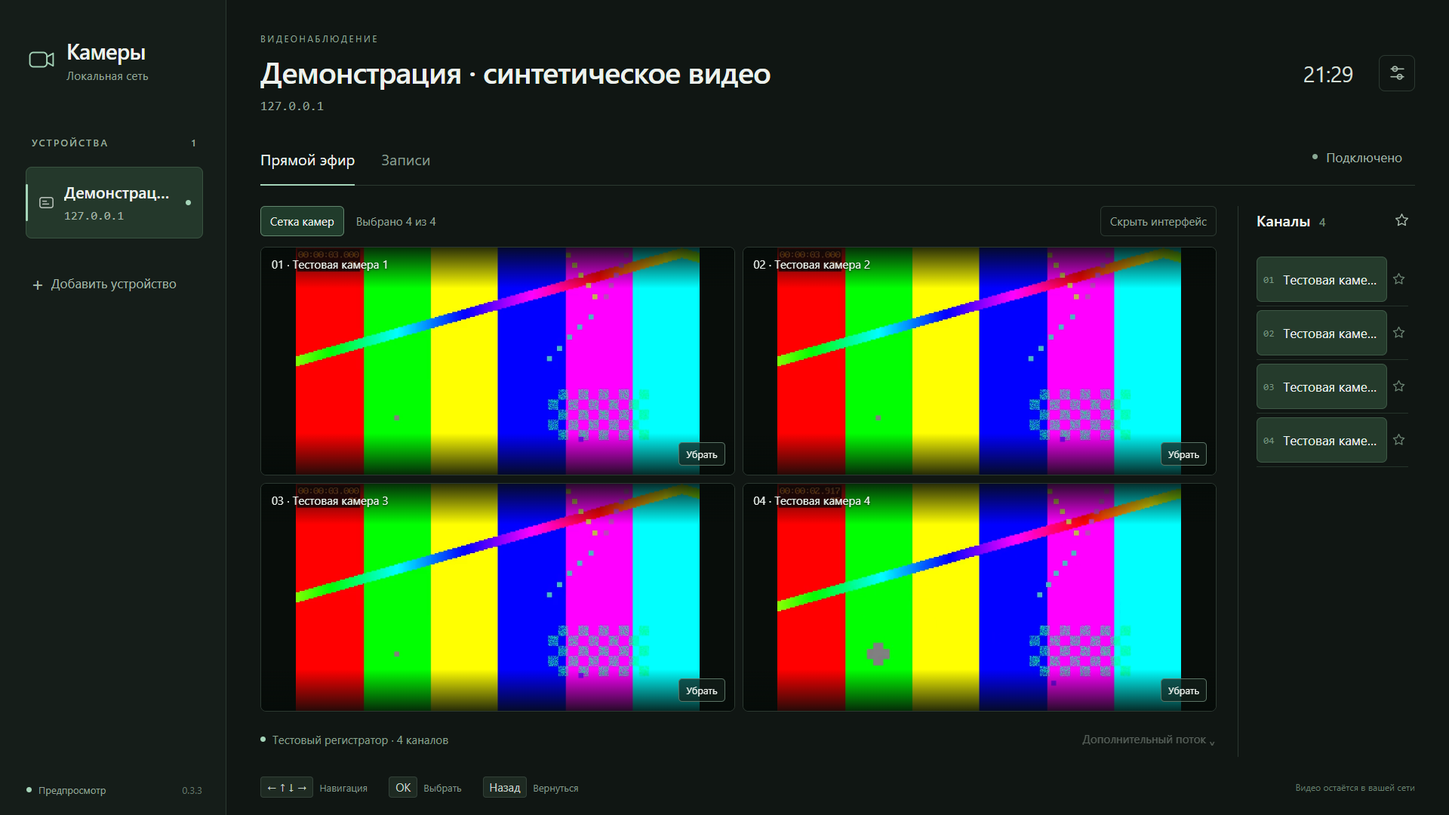
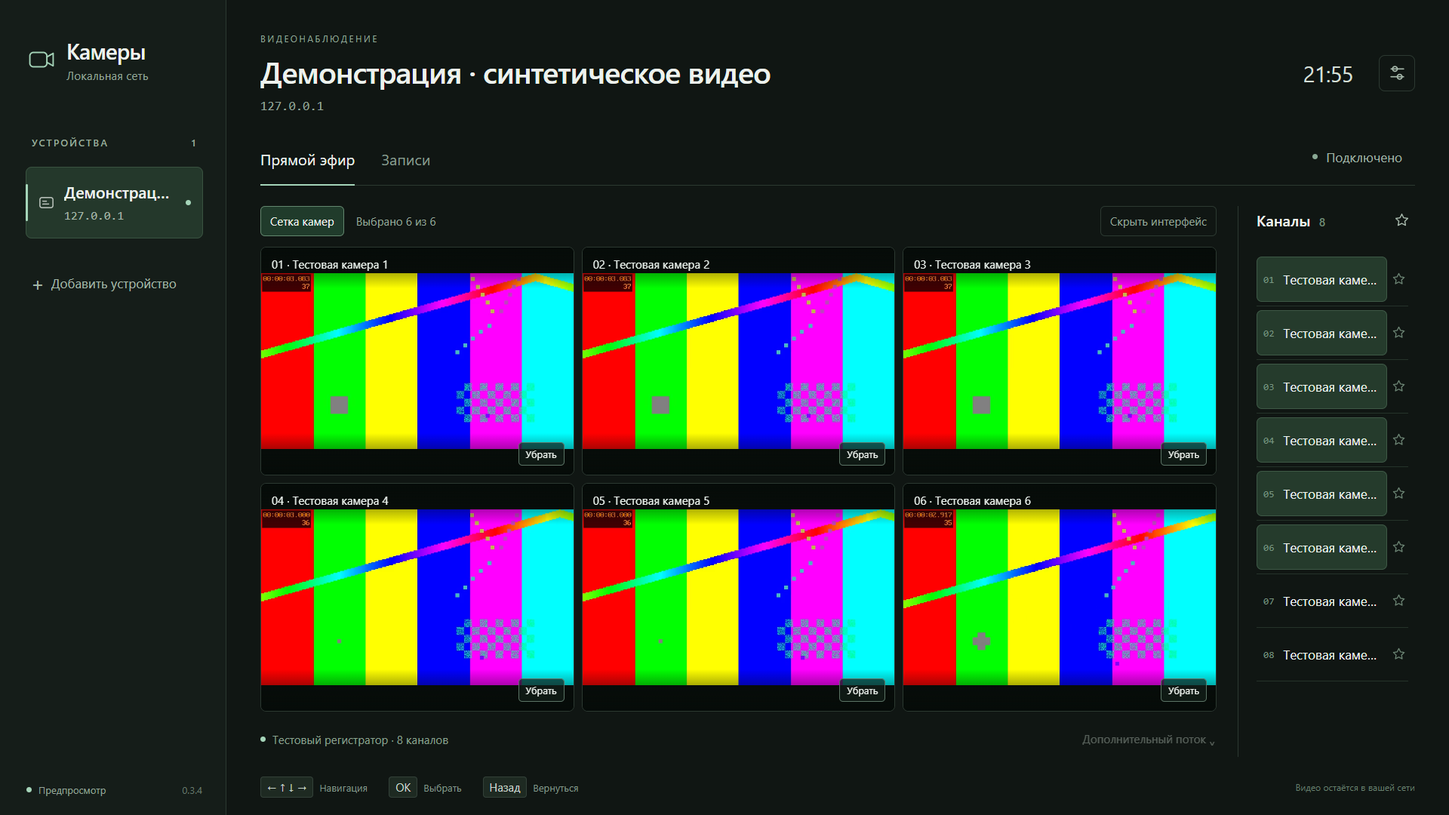
Support six live cameras and enforce the same limit across UI and service

diff --git a/app/app.js b/app/app.js
@@ -11,7 +11,7 @@
   } catch (_) { profiles = defaults; }
   const state = { profiles, selected: profiles[0]?.id || null, connections: new Map(), view: 'live', channel: 0, quality: 'Extra1', favorites: false, connecting: null, editing: null, modal: null, lastFocus: null, playing: false, mode: 'live', playGeneration: 0, loginGeneration: 0, lastPlay: null, recordings: [], nextBegin: null, lastQuery: null, native: Boolean(window.PalmServiceBridge), service: false, keyboardVisible: false };
   state.savedCredentials = new Map(); state.forgetCredentials = false;
-  state.multi = false; state.tiles = new Map(); state.mainLease = null;
+  state.multi = false; state.tiles = new Map(); state.mainLease = null; state.maxStreams = 6;
   const bridges = new Set();
   let sessionBridge = null, toastTimer;
   function service(method, parameters = {}) {
@@ -89,7 +89,7 @@
     $('favorites-filter').setAttribute('aria-pressed', String(state.favorites));
     $('grid-toggle').setAttribute('aria-pressed', String(state.multi));
     $('grid-toggle').disabled=Boolean(state.switchingLayout);
-    $('grid-summary').textContent = state.multi ? 'Выбрано ' + state.tiles.size + ' из 4' : 'Одиночный просмотр';
+    $('grid-summary').textContent = state.multi ? 'Выбрано ' + state.tiles.size + ' из ' + state.maxStreams : 'Одиночный просмотр';
     document.querySelector('[data-action=edit]').disabled = !item;
   }
   function renderArchiveChannels() {
@@ -229,7 +229,7 @@
   async function openTile(channel) {
     const current = connection(); if (!current) return connectDevice();
     if (state.tiles.has(channel)) return;
-    if (state.tiles.size >= 4) return toast('В сетке можно выбрать до четырёх камер');
+    if (state.tiles.size >= state.maxStreams) return toast('В сетке можно выбрать до ' + state.maxStreams + ' камер');
     const item = current.channels[channel]; if (!item) return;
     const tile = { channel, slot:'grid-' + channel, lease:null, element:document.createElement('section') };
     tile.element.className = 'camera-tile'; tile.element.dataset.channel = String(channel); tile.element.setAttribute('aria-label',item.name);
@@ -491,6 +491,7 @@
   window.addEventListener('beforeunload', () => { player.stop();for(const tile of state.tiles.values())tile.player.dispose();state.tiles.clear();for (const bridge of bridges) if (bridge.cancel) bridge.cancel(); if (sessionBridge?.cancel) sessionBridge.cancel(); service('stop').catch(() => {}); });
   render(); focusElement($('device-list').querySelector('button') || document.querySelector('[data-action=add]'));
   service('bootstrap').then(response => {
+    if(Number.isInteger(response.maxStreams)&&response.maxStreams>0)state.maxStreams=Math.min(6,response.maxStreams);
     state.savedCredentials = new Map((response.credentials || []).map(account => [account.id, account])); render();
     state.service = true; $('service-state').textContent = response.native ? 'Сервис готов' : 'Предпросмотр'; document.querySelector('.network-dot').classList.add('ready');
     if (response.native && window.PalmServiceBridge) { sessionBridge = new PalmServiceBridge(); sessionBridge.onservicecallback = () => {}; sessionBridge.call('luna://local.xmeye.viewer.service/session', JSON.stringify({ subscribe: true })); }

diff --git a/app/styles.css b/app/styles.css
@@ -48,3 +48,5 @@
 .fullscreen #player-shell:focus-within .player-controls,.fullscreen .camera-tile:focus-within .tile-controls{opacity:1;pointer-events:auto}
 @media(max-width:1500px){.camera-toolbar{gap:10px;font-size:13px;margin-bottom:10px}.grid-toggle,.grid-screen{font-size:13px;min-height:36px;padding:8px 10px}.tile-caption{font-size:13px;padding:10px 10px 20px}.tile-controls{padding:8px}.tile-status{font-size:13px}.tile-button{font-size:12px}}
 @media(max-width:1050px){.camera-toolbar #grid-summary{display:none}.camera-toolbar{gap:8px}.grid-screen{font-size:12px}.tile-controls{padding:6px}.tile-button{font-size:11px;padding:5px 6px}}
+
+.camera-grid[data-count="5"],.camera-grid[data-count="6"]{grid-template-columns:repeat(3,minmax(0,1fr));grid-template-rows:repeat(2,minmax(0,1fr))}

diff --git a/app/index.html b/app/index.html
@@ -15,7 +15,7 @@
       <div class="section-label">УСТРОЙСТВА <span id="device-count"></span></div>
       <nav id="device-list" class="device-list"></nav>
       <button type="button" class="add-device" data-action="add"><span aria-hidden="true">+</span> Добавить устройство</button>
-      <div class="sidebar-bottom"><span class="network-dot"></span><span id="service-state">Запуск приложения</span><span class="version">0.3.3</span></div>
+      <div class="sidebar-bottom"><span class="network-dot"></span><span id="service-state">Запуск приложения</span><span class="version">0.3.4</span></div>
     </aside>
 
     <main class="main">

diff --git a/README.md b/README.md
@@ -1,23 +1,23 @@
 # LG XMEye Viewer
 
-**Камеры видеонаблюдения на телевизоре LG webOS: подключение к регистратору по локальной сети, H.264/H.265 и до четырёх камер одновременно.**
+**Камеры видеонаблюдения на телевизоре LG webOS: подключение к регистратору по локальной сети, H.264/H.265 и до шести камер одновременно.**
 
 [![Checks](https://github.com/alexbel123/lg-xmeye-viewer/actions/workflows/checks.yml/badge.svg)](https://github.com/alexbel123/lg-xmeye-viewer/actions/workflows/checks.yml)
 [![License: GPL v3](https://img.shields.io/badge/license-GPLv3-blue.svg)](LICENSE)
-[![Source preview: 0.3.3](https://img.shields.io/badge/source_preview-0.3.3-orange.svg)](https://github.com/alexbel123/lg-xmeye-viewer/releases)
+[![Source preview: 0.3.4](https://img.shields.io/badge/source_preview-0.3.4-orange.svg)](https://github.com/alexbel123/lg-xmeye-viewer/releases)
 
 [English](README.en.md) · [Установка](docs/INSTALL.ru.md) · [Совместимость](docs/COMPATIBILITY.md) · [Конфиденциальность](docs/PRIVACY.md) · [Сообщить об ошибке](https://github.com/alexbel123/lg-xmeye-viewer/issues/new/choose)
 
 Независимый открытый клиент для XMEye-совместимых DVR/NVR. Интерфейс и сервис работают на телевизоре; постоянно включённый компьютер для просмотра не нужен. Приложение подключается по IP и использует учётную запись самого регистратора. Облачный аккаунт XMEye не требуется и не поддерживается.
 
-**Статус: экспериментальная версия для разработчиков.** В [выпуске v0.3.3](https://github.com/alexbel123/lg-xmeye-viewer/releases/tag/v0.3.3) доступны готовые IPK HD/FHD, декодер, полные исходники и контрольные суммы. Декодер собран нами из зафиксированных исходников FFmpeg. Одобрения LG Content Store пока нет. Работа обычной установки Developer Mode без root ещё не подтверждена — см. [ограничения](docs/COMPATIBILITY.md).
+**Статус: экспериментальная версия для разработчиков.** В [выпуске v0.3.4](https://github.com/alexbel123/lg-xmeye-viewer/releases/tag/v0.3.4) доступны готовые IPK HD/FHD, декодер, полные исходники и контрольные суммы. Декодер собран нами из зафиксированных исходников FFmpeg. Одобрения LG Content Store пока нет. Работа обычной установки Developer Mode без root ещё не подтверждена — см. [ограничения](docs/COMPATIBILITY.md).
 
 ## Что уже работает
 
 - Несколько профилей регистраторов, отдельные сохранённые данные входа для каждого.
 - Получение списка каналов и прямой эфир через DVRIP, обычно TCP 34567.
 - Горячее переключение камер с отдельными управляющим и видеосоединениями.
-- До **четырёх** выбранных камер одного регистратора одновременно.
+- До **шести** выбранных камер одного регистратора одновременно.
 - Скрытие интерфейса для просмотра поля камер на весь экран.
 - Управление стрелками, OK, «Назад», указателем Magic Remote и CH+/CH−.
 - Основной и дополнительный потоки, H.264 и H.265/HEVC.
@@ -30,11 +30,11 @@
 
 Рабочая сетка с **синтетическим тестовым видео**; реальные камеры и пользовательские данные в изображение не включены:
 
-![Рабочее приложение: четыре синтетических видеопотока и управление каналами](docs/images/live-grid.png)
+![Рабочее приложение: шесть синтетических видеопотока и управление каналами](docs/images/live-grid.png)
 
-Развиваемый интерфейс v0.4: **это отдельный интерактивный макет**, все кадры сгенерированы. Сетки 1/2/4/6 и подписанные наборы показаны в макете; в рабочей версии ограничение — четыре потока, наборы пока не перенесены:
+Развиваемый интерфейс v0.4: **это отдельный интерактивный макет**, все кадры сгенерированы. Рабочая версия уже поддерживает до шести потоков и автоматическую сетку 3×2. Именованные наборы и ручной выбор раскладки пока остаются в макете:
 
-![Макет v0.4 с шестью демонстрационными камерами; не возможности текущей рабочей версии](docs/images/interface-concept.png)
+![Макет v0.4: будущий интерфейс наборов камер и сгенерированные кадры](docs/images/interface-concept.png)
 
 Макет можно открыть локально: `design/prototype-v0.4/index.html`. Он не подключается к регистраторам. [Описание макета](design/prototype-v0.4/README.md).
 

diff --git a/docs/INSTALL.ru.md b/docs/INSTALL.ru.md
@@ -4,7 +4,7 @@
 
 ## Что доступно сейчас
 
-Скачайте готовый пакет из [выпуска v0.3.3](https://github.com/alexbel123/lg-xmeye-viewer/releases/tag/v0.3.3): `local.xmeye.viewer_0.3.3_all.ipk` — интерфейс FHD; `local.xmeye.viewer_0.3.3_1280x720.ipk` — интерфейс HD. Проверяйте файл по `SHA256SUMS-v0.3.3.txt`. Это приложение webOS, а не Android APK. Для готового IPK шаг сборки ниже можно пропустить. Сначала прочитайте [совместимость](COMPATIBILITY.md): обычный Developer Mode без root ещё не проверен, включая права записи хранилища сервиса.
+Скачайте готовый пакет из [выпуска v0.3.4](https://github.com/alexbel123/lg-xmeye-viewer/releases/tag/v0.3.4): `local.xmeye.viewer_0.3.4_all.ipk` — интерфейс FHD; `local.xmeye.viewer_0.3.4_1280x720.ipk` — интерфейс HD. Проверяйте файл по `SHA256SUMS-v0.3.4.txt`. Это приложение webOS, а не Android APK. Для готового IPK шаг сборки ниже можно пропустить. Сначала прочитайте [совместимость](COMPATIBILITY.md): обычный Developer Mode без root ещё не проверен, включая права записи хранилища сервиса.
 
 ## 1. Подготовить компьютер
 
@@ -18,7 +18,7 @@ npm install --global @webos-tools/cli
 npm run build
 ```
 
-Команда загрузки декодера обращается к выпуску этого проекта на GitHub и проверяет SHA-256. Сборка создаёт `dist/local.xmeye.viewer_0.3.3_all.ipk`. `npm run build:hd` создаёт вариант с графическим холстом 1280×720. Если CLI не найден, задайте `WEBOS_CLI_DIR` как каталог установленного пакета. PowerShell:
+Команда загрузки декодера обращается к выпуску этого проекта на GitHub и проверяет SHA-256. Сборка создаёт `dist/local.xmeye.viewer_0.3.4_all.ipk`. `npm run build:hd` создаёт вариант с графическим холстом 1280×720. Если CLI не найден, задайте `WEBOS_CLI_DIR` как каталог установленного пакета. PowerShell:
 
 ```powershell
 $env:WEBOS_CLI_DIR = Join-Path (npm root -g) '@webos-tools/cli'
@@ -39,7 +39,7 @@ ares-novacom --device my-tv --getkey
 ## 3. Установить локально собранный пакет
 
 ```sh
-ares-install --device my-tv dist/local.xmeye.viewer_0.3.3_all.ipk
+ares-install --device my-tv dist/local.xmeye.viewer_0.3.4_all.ipk
 ares-launch --device my-tv local.xmeye.viewer
 ```
 
@@ -49,7 +49,7 @@ ares-launch --device my-tv local.xmeye.viewer
 
 В приложении нажмите «Добавить устройство», введите название, IP, порт DVRIP (обычно 34567), пользователя и пароль самого регистратора. Для нескольких устройств создайте отдельные профили. Пустое поле пароля при редактировании сохраняет прежние данные; «Удалить данные входа» очищает их для выбранного устройства.
 
-Выберите камеру. Для нескольких камер нажмите «Сетка камер» и отметьте до четырёх каналов одного регистратора. «Скрыть интерфейс» разворачивает поле камер, «Назад» возвращает панели. Для сетки включите в регистраторе Extra1 с умеренным разрешением и частотой кадров.
+Выберите камеру. Для нескольких камер нажмите «Сетка камер» и отметьте до шести каналов одного регистратора. «Скрыть интерфейс» разворачивает поле камер, «Назад» возвращает панели. Для сетки включите в регистраторе Extra1 с умеренным разрешением и частотой кадров.
 
 Если телефон видит видео через облако, это не гарантирует доступность IP регистратора с телевизора. Проверьте маршрутизацию между подсетями, порт DVRIP и права просмотра учётной записи. Не публикуйте порт регистратора в интернете ради этого приложения; для удалённого доступа используйте собственную защищённую сеть/VPN.
 

diff --git a/docs/INSTALL.en.md b/docs/INSTALL.en.md
@@ -2,7 +2,7 @@
 
 [Home](../README.en.md) · [Русский](INSTALL.ru.md)
 
-This is a webOS app, not an Android APK. Download the FHD `local.xmeye.viewer_0.3.3_all.ipk` or HD `local.xmeye.viewer_0.3.3_1280x720.ipk` from [release v0.3.3](https://github.com/alexbel123/lg-xmeye-viewer/releases/tag/v0.3.3) and verify `SHA256SUMS-v0.3.3.txt`. Skip the build step when using a ready IPK; see [licensing](LICENSING.md). Ordinary non-root Developer Mode operation, including service storage permissions, has not been validated. Historical hardware testing used a rooted TV.
+This is a webOS app, not an Android APK. Download the FHD `local.xmeye.viewer_0.3.4_all.ipk` or HD `local.xmeye.viewer_0.3.4_1280x720.ipk` from [release v0.3.4](https://github.com/alexbel123/lg-xmeye-viewer/releases/tag/v0.3.4) and verify `SHA256SUMS-v0.3.4.txt`. Skip the build step when using a ready IPK; see [licensing](LICENSING.md). Ordinary non-root Developer Mode operation, including service storage permissions, has not been validated. Historical hardware testing used a rooted TV.
 
 ## Build
 
@@ -16,7 +16,7 @@ npm install --global @webos-tools/cli
 npm run build
 ```
 
-The decoder setup downloads the project's source-built decoder from its GitHub release and verifies its pinned SHA-256. The output is `dist/local.xmeye.viewer_0.3.3_all.ipk`. `npm run build:hd` builds a 1280×720 graphics variant. If CLI discovery fails, set `WEBOS_CLI_DIR` to the installed `@webos-tools/cli` package directory.
+The decoder setup downloads the project's source-built decoder from its GitHub release and verifies its pinned SHA-256. The output is `dist/local.xmeye.viewer_0.3.4_all.ipk`. `npm run build:hd` builds a 1280×720 graphics variant. If CLI discovery fails, set `WEBOS_CLI_DIR` to the installed `@webos-tools/cli` package directory.
 
 ## Pair and install
 
@@ -25,7 +25,7 @@ Follow [LG's official Developer Mode guide](https://webostv.developer.lge.com/de
 ```sh
 ares-setup-device
 ares-novacom --device my-tv --getkey
-ares-install --device my-tv dist/local.xmeye.viewer_0.3.3_all.ipk
+ares-install --device my-tv dist/local.xmeye.viewer_0.3.4_all.ipk
 ares-launch --device my-tv local.xmeye.viewer
 ```
 
@@ -35,7 +35,7 @@ These standard CLI commands do not establish that every non-root runtime restric
 
 Start with **Add device** (the current UI is Russian). Enter the recorder's IP, DVRIP port (usually 34567), username and password. The TV must have a routed connection to the recorder. Phone access through XMEye cloud is not sufficient. Use separate profiles for separate recorder credentials.
 
-Select a live channel or open the camera grid and select up to four channels from the same recorder. Grid mode uses the Extra1 substream; use moderate resolution/frame rates. Hide the interface to fill the TV with the camera field; Back restores controls.
+Select a live channel or open the camera grid and select up to six channels from the same recorder. Grid mode uses the Extra1 substream; use moderate resolution/frame rates. Hide the interface to fill the TV with the camera field; Back restores controls.
 
 See [compatibility](COMPATIBILITY.md), [privacy/storage](PRIVACY.md) and [development](../CONTRIBUTING.md). Do not expose the recorder's DVRIP port to the public internet; use your own protected network/VPN for remote access.
 

diff --git a/README.en.md b/README.en.md
@@ -1,18 +1,18 @@
 # LG XMEye Viewer
 
-**An open-source CCTV viewer for LG webOS TVs: local DVRIP connections, H.264/H.265 playback and up to four simultaneous cameras.**
+**An open-source CCTV viewer for LG webOS TVs: local DVRIP connections, H.264/H.265 playback and up to six simultaneous cameras.**
 
 [Русский](README.md) · [Installation](docs/INSTALL.en.md) · [Compatibility](docs/COMPATIBILITY.md) · [Privacy](docs/PRIVACY.md) · [Issues](https://github.com/alexbel123/lg-xmeye-viewer/issues/new/choose)
 
 The TV application and its JavaScript service connect directly to an XMEye-compatible DVR/NVR by IP, using the recorder's own account. An always-on computer and an XMEye cloud account are not required. Cloud/P2P login by serial number is not implemented.
 
-**Experimental developer preview, version 0.3.3.** [The release](https://github.com/alexbel123/lg-xmeye-viewer/releases/tag/v0.3.3) includes HD/FHD IPK packages, a source-built decoder bundle, full corresponding sources and checksums. The decoder is built from pinned FFmpeg sources. This project has not been approved for LG Content Store. Ordinary non-root Developer Mode operation has not yet been validated. Read compatibility notes before installation.
+**Experimental developer preview, version 0.3.4.** [The release](https://github.com/alexbel123/lg-xmeye-viewer/releases/tag/v0.3.4) includes HD/FHD IPK packages, a source-built decoder bundle, full corresponding sources and checksums. The decoder is built from pinned FFmpeg sources. This project has not been approved for LG Content Store. Ordinary non-root Developer Mode operation has not yet been validated. Read compatibility notes before installation.
 
 ## Features
 
 - Separate recorder profiles and encrypted saved credentials per device.
 - Live channel list, main/substream selection and hot camera switching.
-- Up to **four** live cameras from one recorder, with independent media connections.
+- Up to **six** live cameras from one recorder, with independent media connections.
 - Fullscreen camera field with hidden controls and remote navigation.
 - H.264/H.265 playback using MediaSource or a local WebAssembly/WebGL decoder.
 - Recording search/playback, verified against synthetic recordings.
@@ -24,11 +24,11 @@ No audio, PTZ, cloud-serial login, recording export or universal recorder compat
 
 Working application with **synthetic test patterns**, never private CCTV footage:
 
-![Working four-camera grid with synthetic video](docs/images/live-grid.png)
+![Working six-camera grid with synthetic video](docs/images/live-grid.png)
 
-Separate v0.4 **UI concept**, with generated images. Its 1/2/4/6 layouts and named camera sets are design proposals and are not all implemented in the working application:
+Separate v0.4 **UI concept**, with generated images. The working player supports up to six streams with an automatic 3×2 grid. Named sets and manual layout selection remain prototype features:
 
-![Separate six-camera UI concept, not the current application's feature set](docs/images/interface-concept.png)
+![Future UI concept with named camera sets and generated imagery](docs/images/interface-concept.png)
 
 Open `design/prototype-v0.4/index.html` for the interactive concept. It makes no connections to recorders.
 

diff --git a/docs/COMPATIBILITY.md b/docs/COMPATIBILITY.md
@@ -7,7 +7,7 @@
 | Installation | Hardware installation used root access; ordinary Developer Mode/store sandbox not validated |
 | Networking | Direct IPv4/DVRIP TCP, usually port 34567; routed subnets supported in principle; no cloud/P2P/serial login |
 | DVR/NVR | XMEye-compatible protocol; protocol/firmware variants may differ; not every branded recorder is supported |
-| Live view | One recorder selected at a time, up to four concurrent selected channels |
+| Live view | One recorder selected at a time, up to six concurrent selected channels |
 | Grid video | Extra1 substream; native TV uses source-built FFmpeg WebAssembly workers/WebGL; 8-bit YUV420 only, 1920×1080 pixel budget, performance depends on TV and stream settings |
 | Main/archive | MediaSource fragmented MP4, H.264/H.265 subject to platform codec support; reordered B-frames rejected |
 | Archive | Search/playback tested on generated recordings; real private archives were not examined |
@@ -16,10 +16,12 @@
 | Missing | Audio, PTZ, cloud login, pause/export, multi-recorder grids |
 | v0.4 concept | Layouts 1/2/4/6, named sets and enlarged grid tile are shown in a separate synthetic prototype; not all shipped |
 
-Historical C2 test: four HEVC 800×448 channels at approximately 15/15/15/20 fps for 45 seconds, six hot switches. This is not an endurance benchmark. See [verification.json](../verification.json), which describes the **0.3.1 baseline**, not a new 0.3.3 physical-TV test.
+Historical C2 test: four HEVC 800×448 channels at approximately 15/15/15/20 fps for 45 seconds, six hot switches. This is not an endurance benchmark. See [verification.json](../verification.json), which describes the **0.3.1 baseline**, not a new 0.3.4 physical-TV test.
 
 The native service's default credential directory is `/media/internal/local.xmeye.viewer/`. Its writability in the standard app sandbox is unresolved. Filesystem behavior must be validated before claiming normal-user/store installation support. Do not interpret a successful rooted-TV test as store readiness.
 
 Useful official references: [LG JS services](https://webostv.developer.lge.com/develop/guides/js-service-basics), [graphics resolution](https://webostv.developer.lge.com/develop/specifications/app-resolution), [Developer Mode](https://webostv.developer.lge.com/develop/getting-started/developer-mode-app).
 
 Version 0.3.3 uses a rebuilt FFmpeg decoder. Scalar/SIMD pixel accuracy and synthetic browser multiview are checked locally; its physical-TV throughput has not yet been measured. The 0.3.1 TV benchmark used the previous decoder and must not be treated as a 0.3.3 performance claim.
+
+Version 0.3.4 raises the actual application/service limit to six cameras, with a 3×2 layout for five/six tiles. Local synthetic H.264/H.265 checks verify six advancing streams, seventh-camera rejection, remote replacement and peer preservation. Six-camera physical-TV throughput has not been measured.

diff --git a/decoder/README.md b/decoder/README.md
@@ -2,7 +2,7 @@
 
 The scalar and SIMD WebAssembly decoders are built from **FFmpeg 8.1.3**, with
 the project's small C adapter in `viewer_decoder.c`. No Jessibuca/libavc/libhevc
-prebuilt libraries are used in version 0.3.3. Both variants decode H.264 and HEVC
+prebuilt libraries are used starting with version 0.3.3. Both variants decode H.264 and HEVC
 Annex-B access units to 8-bit YUV420. Each worker owns its decoder and memory.
 
 ## Rebuild
@@ -41,7 +41,7 @@ verified runtime-source file count, compiler version, configure options and
 artifact hashes. Do not modify generated files manually.
 
 `test/decoder.test.cjs` checks scalar/SIMD H.264 and HEVC, delayed B-frame flush,
-pixel hashes against native FFmpeg, four independent instances, invalid state
+pixel hashes against native FFmpeg, six independent instances, invalid state
 and codec reinitialization. Browser integration is tested separately with
 synthetic recorders. The software decoder accepts only 8-bit YUV420 and a pixel
 budget of 1920×1080; memory grows from 32 MiB up to a maximum 256 MiB per worker.

diff --git a/design/prototype-v0.4/README.md b/design/prototype-v0.4/README.md
@@ -1,7 +1,7 @@
 # Макет «Камеры» v0.4
 
 Интерактивный макет для согласования интерфейса телевизионного приложения.
-Рабочее приложение 0.3.1, видеосервис, сохранённые учётные записи и телевизоры не изменялись.
+При создании макета рабочее приложение 0.3.1, видеосервис, сохранённые учётные записи и телевизоры не изменялись. Текущие возможности плеера описаны в [главном README](../../README.md).
 Макет не обращается к регистраторам. Все кадры демонстрационные, сгенерированные.
 
 Открыть `index.html` или запустить из корня проекта:

diff --git a/CHANGELOG.md b/CHANGELOG.md
@@ -1,5 +1,12 @@
 # Changelog
 
+## 0.3.4 — 2026-11-09
+
+- Raise the working UI and service limit to six concurrent cameras; reject a seventh while retaining the active six.
+- Use a 3×2 grid for five/six tiles and show the service-advertised stream limit.
+- Verify six independent decoder instances, service slots, camera failure/removal and browser H.264/H.265 multiview.
+- Update user documentation and screenshots. No physical-TV deployment was performed.
+
 ## 0.3.3 — 2026-11-09
 
 - Source-built FFmpeg 8.1.3 scalar/SIMD decoders with the project's C adapter.
